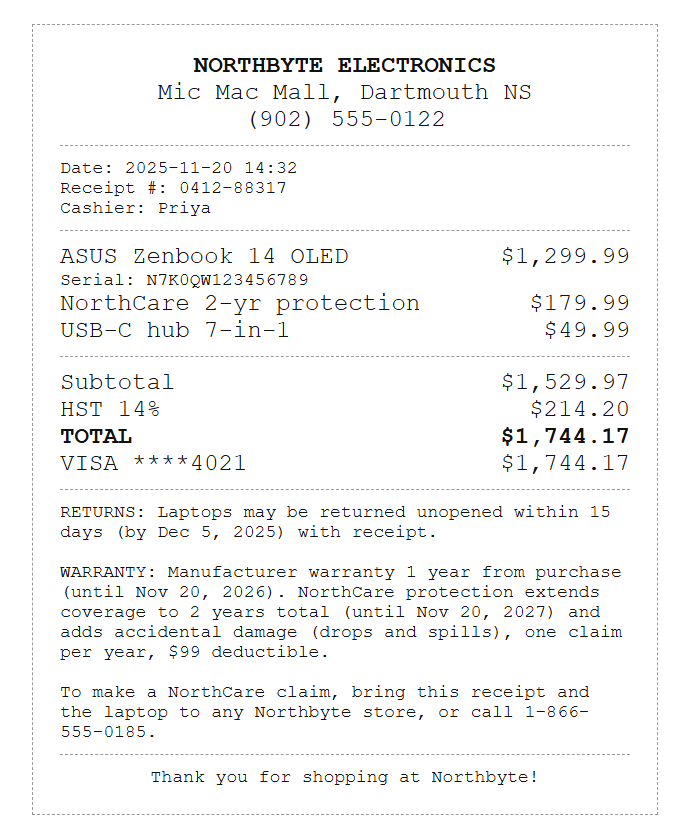
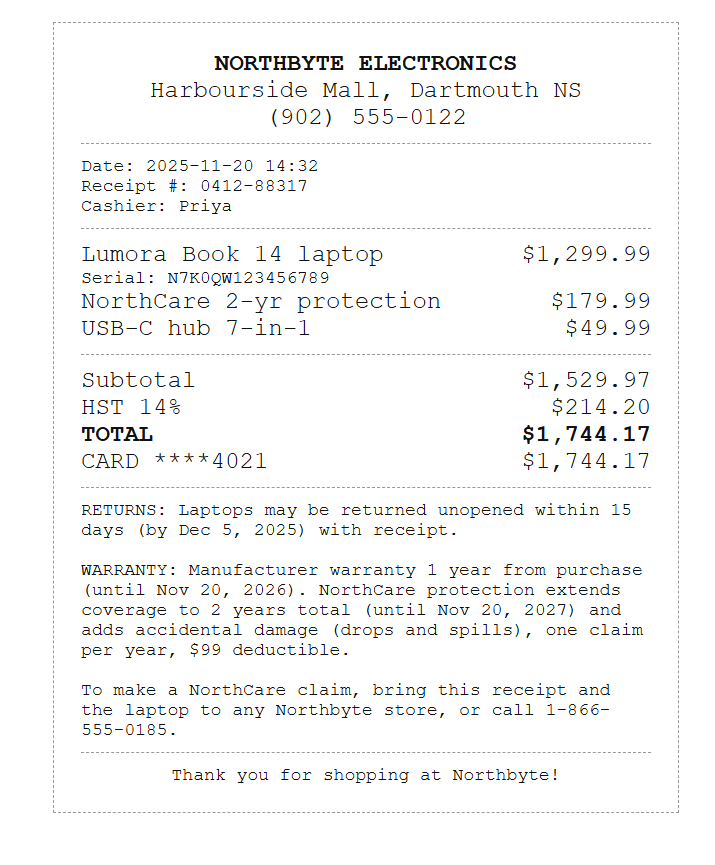
Only light the ring for unheard notifications; copy amounts exactly on upload

Changed region(s): [[0.0617, 0.1553, 0.9251, 0.963], [0.2159, 0.0621, 0.8326, 0.1553]]

diff --git a/web/src/App.tsx b/web/src/App.tsx
@@ -26,6 +26,10 @@ const SUGGESTIONS = [
   "When does my car insurance renew?",
 ];
 
+function notificationKey(n: Notification): string {
+  return `${n.document_id}|${n.label}|${n.date}`;
+}
+
 export default function App() {
   const [ring, setRing] = useState<RingState>("idle");
   const [turns, setTurns] = useState<Turn[]>([]);
@@ -35,7 +39,10 @@ export default function App() {
   const [error, setError] = useState("");
   const [voiceOn, setVoiceOn] = useState(true);
   const [notifications, setNotifications] = useState<Notification[]>([]);
-  const [notificationsHeard, setNotificationsHeard] = useState(false);
+  // Notifications already read out, by "document|label|date". The ring only turns
+  // yellow for ones the user hasn't heard, so adding a document that has no new
+  // near-term date doesn't light it up again.
+  const [heardKeys, setHeardKeys] = useState<Set<string>>(new Set());
   const [needPasscode, setNeedPasscode] = useState(passcodeMissing);
   const [passcodeInput, setPasscodeInput] = useState("");
   // True until the first notification check finishes: the ring spins slowly in
@@ -49,7 +56,12 @@ export default function App() {
   const activeQueue = useRef<SpeechQueue | null>(null);
 
   const busy = ring !== "idle";
-  const notify = !busy && !notificationsHeard && notifications.length > 0;
+  const unheard = notifications.filter((n) => !heardKeys.has(notificationKey(n)));
+  const notify = !busy && unheard.length > 0;
+
+  function markNotificationsHeard() {
+    setHeardKeys((keys) => new Set([...keys, ...notifications.map(notificationKey)]));
+  }
 
   // Like an Echo: check for due dates on start and light the ring yellow if any.
   // The check is a plain MCP tool call, shown in the panel so viewers can see it.
@@ -82,7 +94,7 @@ export default function App() {
   /** Read notifications from the last check: no model call, no new MCP lookup. */
   async function readNotifications(question: string) {
     const summary = briefing.current?.text ?? describeNotifications(notifications);
-    setNotificationsHeard(true);
+    markNotificationsHeard();
     setTurns((all) => [...all, { role: "user", text: question }, { role: "assistant", text: summary }]);
     if (lastCheck.current) {
       setTools([{ ...lastCheck.current, input: { ...lastCheck.current.input, from: "startup check" } }]);
@@ -138,7 +150,7 @@ export default function App() {
             setTools((runs) => [...runs, { id: event.id, name: event.name, input: event.input }]);
             // If the answer reads out upcoming dates, the notifications have been
             // heard, whatever the question was ("hello" can trigger it too).
-            if (event.name === "list_upcoming_dates") setNotificationsHeard(true);
+            if (event.name === "list_upcoming_dates") markNotificationsHeard();
             break;
           case "tool_result":
             setTools((runs) =>
@@ -227,7 +239,6 @@ export default function App() {
       else setError(e instanceof Error ? e.message : String(e));
     } finally {
       setRing("idle");
-      setNotificationsHeard(false);
       void refreshNotifications(false);
     }
   }

diff --git a/agent/src/homedocs_agent/extract.py b/agent/src/homedocs_agent/extract.py
@@ -60,7 +60,9 @@ RECORD_TOOL = {
 
 PROMPT = """Read this household document and record its key facts with the record_document tool.
 Today is {today}. Use only what the document says; if a year is missing from a date, \
-infer it from the document's context. Leave out account passwords and full card numbers."""
+infer it from the document's context. Copy amounts, counts and limits exactly as written: \
+"one claim per year" is a count, not "$1". If a number is hard to read, leave it out \
+rather than guess. Leave out account passwords and full card numbers."""
 
 
 class UnsupportedFile(ValueError):
